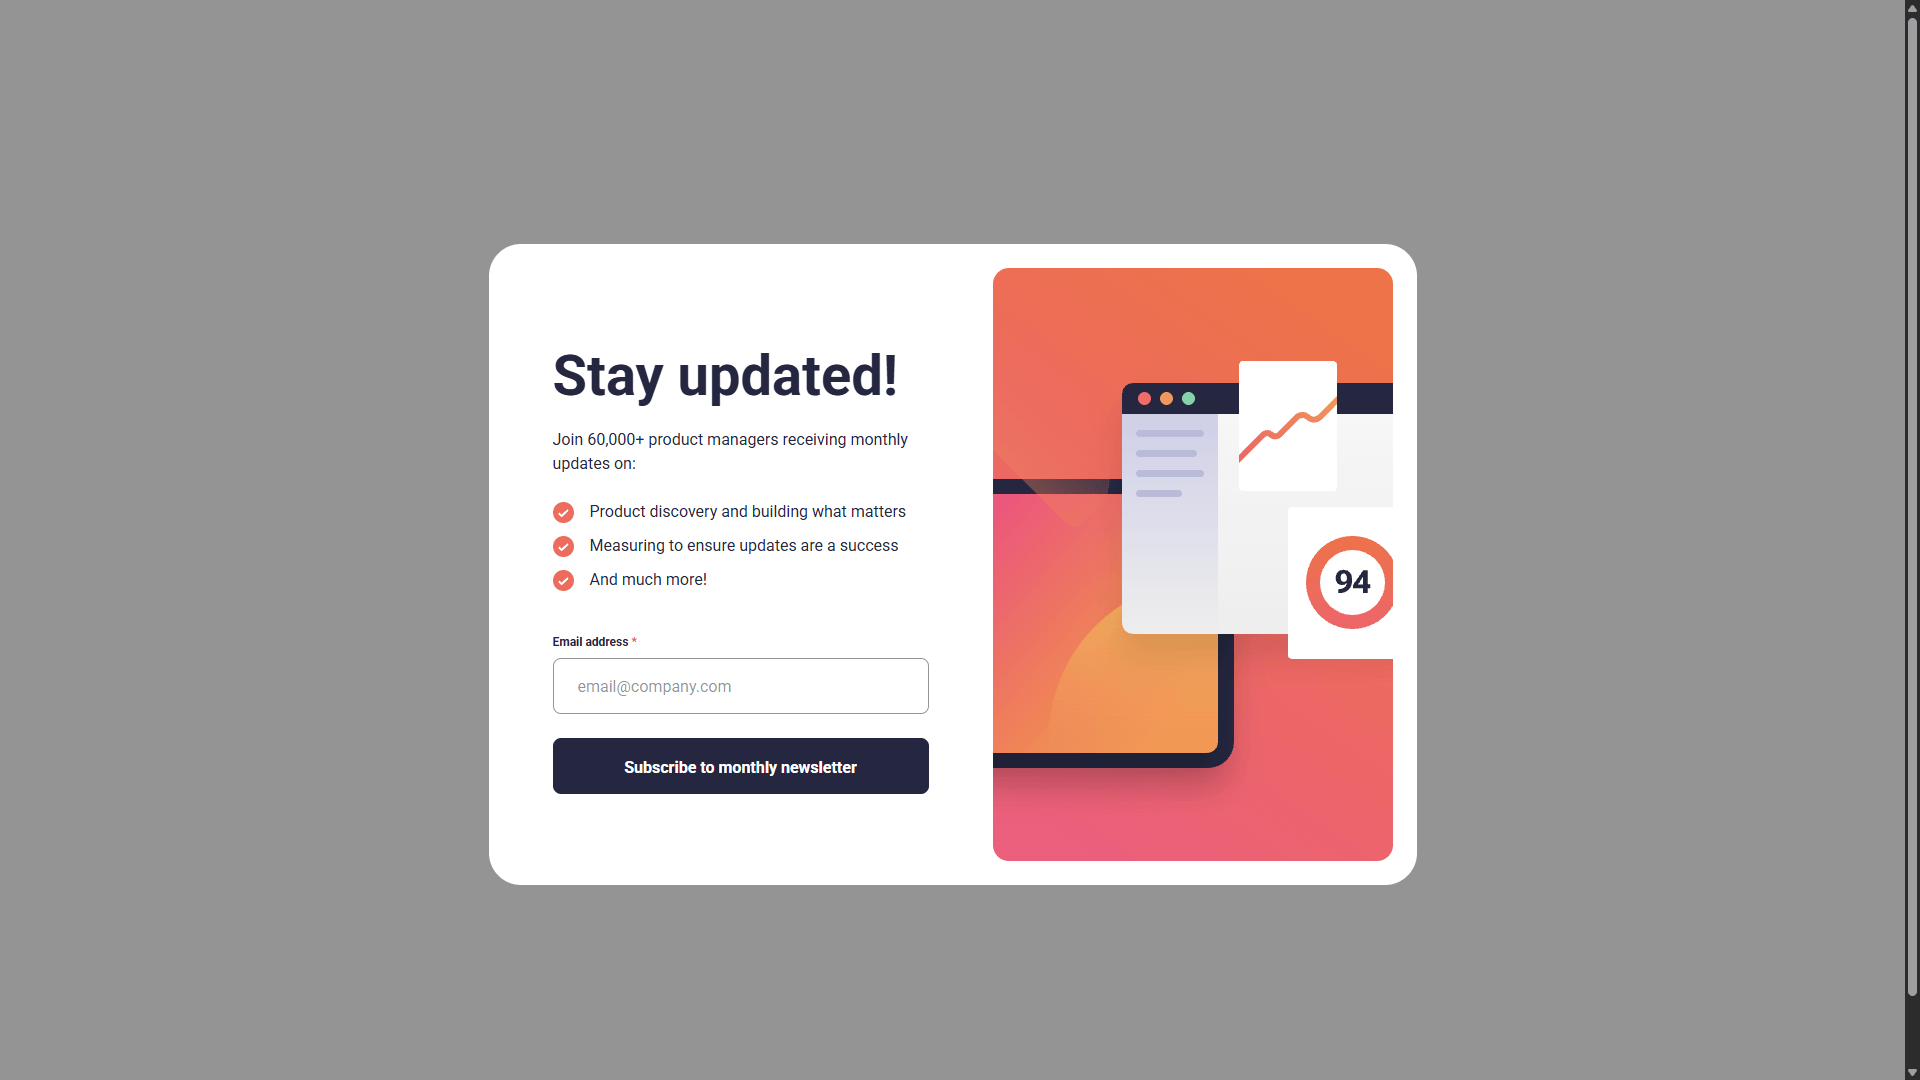
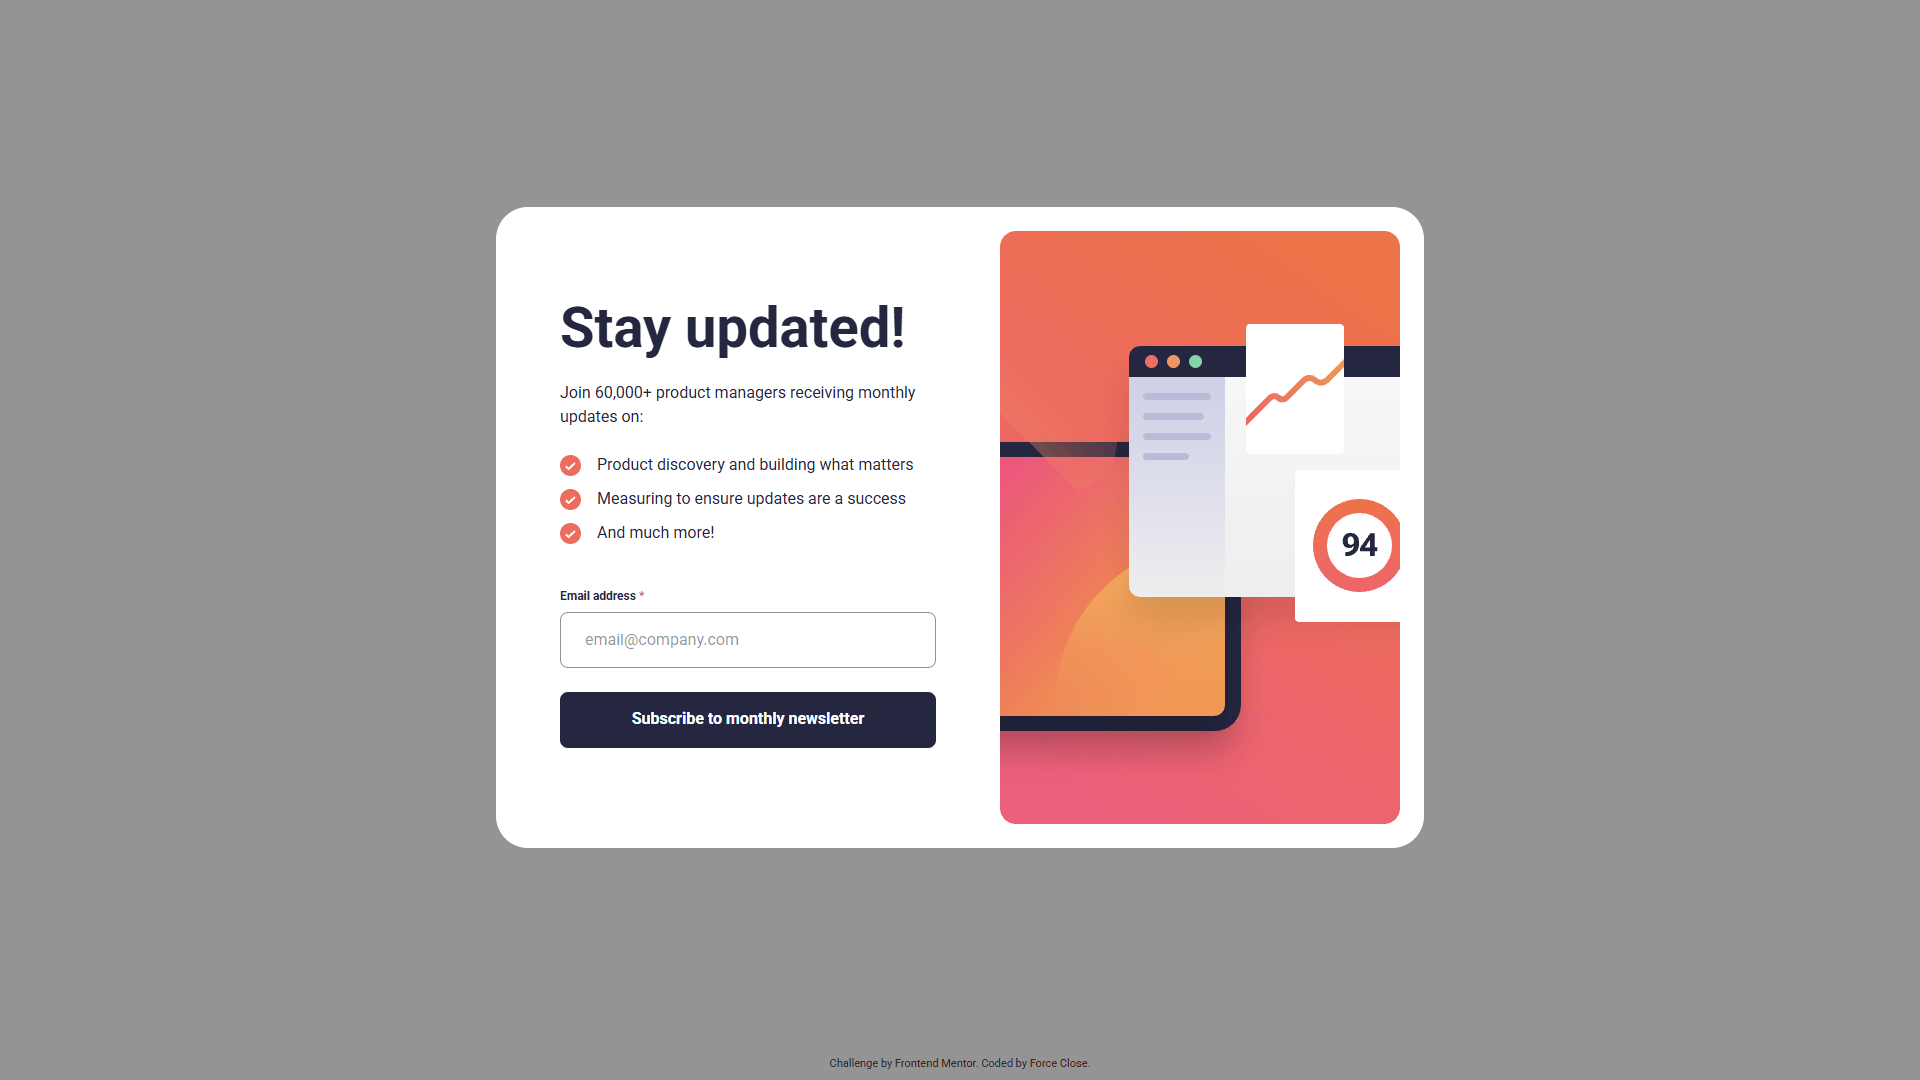
docs(readme): add links section and new learnings
- Add "solution url" and "live site url" in the "Link" section
- Add "CSS `:has()` and `:user-invalid` pseudo-class" in the "What I learned" section
- Change "JavaScript form validation" description in the "What I learned" section

diff --git a/README.md b/README.md
@@ -37,8 +37,8 @@ Users should be able to:
 
 ### Links
 
-- Solution URL: [Add solution URL here](https://your-solution-url.com)
-- Live Site URL: [Add live site URL here](https://your-live-site-url.com)
+- Solution URL: [solution URL](https://github.com/forceclosee/newsletter-sign-up-form-with-success-message)
+- Live Site URL: [live site URL](https://newsletter-sign-up-form-forceclose.vercel.app/)
 
 ## My process
 
@@ -93,16 +93,25 @@ During this project, I learned and practiced several key concepts:
     pattern="[a-zA-Z0-9._%+\-]+@[a-zA-Z0-9.\-]+\.[a-zA-Z]{2,}" />
   ```
 
+- **CSS `:has()` and `:user-invalid` pseudo-class**  
+  Using the modern CSS `:has()` pseudo-class (via Tailwind's `group-has-*` variant) to handle state-based UI changes without JavaScript. In this project, it is used to toggle the visibility of the error message dynamically when the user's input is invalid.
+
+  ```html
+  <div class="group">
+    <!-- ... -->
+    <span class="hidden group-has-[:user-invalid]:block text-red-500"></span>
+    <input type="email" required />
+  </div>
+  ```
+
 - **JavaScript form validation**  
-  Utilizing the Constraint Validation API (`validity` object) to detect specific input errors (such as `valueMissing`, `typeMismatch`, or `patternMismatch`) and displaying the corresponding error messages dynamically. The text for these error messages is retrieved from the custom `data-*` attributes embedded in the HTML, cleanly separating content from JavaScript logic.
+  Utilizing the Constraint Validation API (`validity` object) to detect specific input errors (such as `valueMissing`, `typeMismatch`, or `patternMismatch`) and dynamically setting the appropriate error text. The visibility of the error message is handed over to CSS, leaving JavaScript to focus solely on validation logic and retrieving the correct message from custom `data-*` attributes.
 
   ```js
   function validateEmail(emailInput) {
     const errorElement = document.querySelector("#error-message");
 
     if (!emailInput.validity.valid) {
-      errorElement.setAttribute("aria-hidden", false);
-
       if (emailInput.validity.valueMissing) {
         errorElement.textContent = emailInput.dataset.errorValue;
       } else if (
@@ -117,8 +126,9 @@ During this project, I learned and practiced several key concepts:
         errorElement.textContent = emailInput.dataset.errorPattern;
       }
       return false;
+    } else {
+      return true;
     }
-    // ...
   }
   ```
 
@@ -136,7 +146,7 @@ In future projects, I plan to continue focusing on:
 - [TinyPNG](https://tinypng.com/) - Helped me compress and optimize the images in the project without losing quality, making the page load faster.
 - [Cloudinary](https://cloudinary.com/) - Used to host the Open Graph and Twitter card images for social media sharing.
 - [Perfect Pixel](https://chrome.google.com/webstore/detail/perfectpixel-by-welldonec/dkaagdgjlophiddqccjgplachon0304v) - Chrome extension that allowed me to overlay the design mockup directly on my live page for pixel-perfect accuracy.
-- [MDN Web Docs](https://developer.mozilla.org/en-US/) - Crucial documentation that helped me understand HTML `picture` and `form` element as well as the JavaScript form validation.
+- [MDN Web Docs](https://developer.mozilla.org/en-US/) - Crucial documentation that helped me understand HTML `picture` and `form` element, css `:has()` `:valid` and `:user-invalid` pseudo class as well as the JavaScript form validation.
 
 ### AI Collaboration
 
@@ -149,7 +159,7 @@ In this project, I utilized Gemini Code Assist to enhance my workflow, solve spe
 - **Documentation:** Assisting in drafting clear and concise Git commit messages and structuring this `README.md` file.
 - **SEO Optimization:** Generating boilerplate for standard SEO, Open Graph, and Twitter Card meta tags.
 
-Overall, this collaborative process proved to be highly effective. The AI didn't just give me the code, instead it explained _why_ certain bugs happened (e.g., how the CSS box model is affected by border width changes) and how the proposed solution is considered a best practice. This made the AI act more like a mentor than just a code generator.
+So far, this collaborative process proved to be highly effective. The AI didn't just give me the code, instead it explained _why_ certain bugs happened (e.g., how the CSS box model is affected by border width changes) and how the proposed solution is considered a best practice. This made the AI act more like a mentor than just a code generator.
 
 ## Author
 